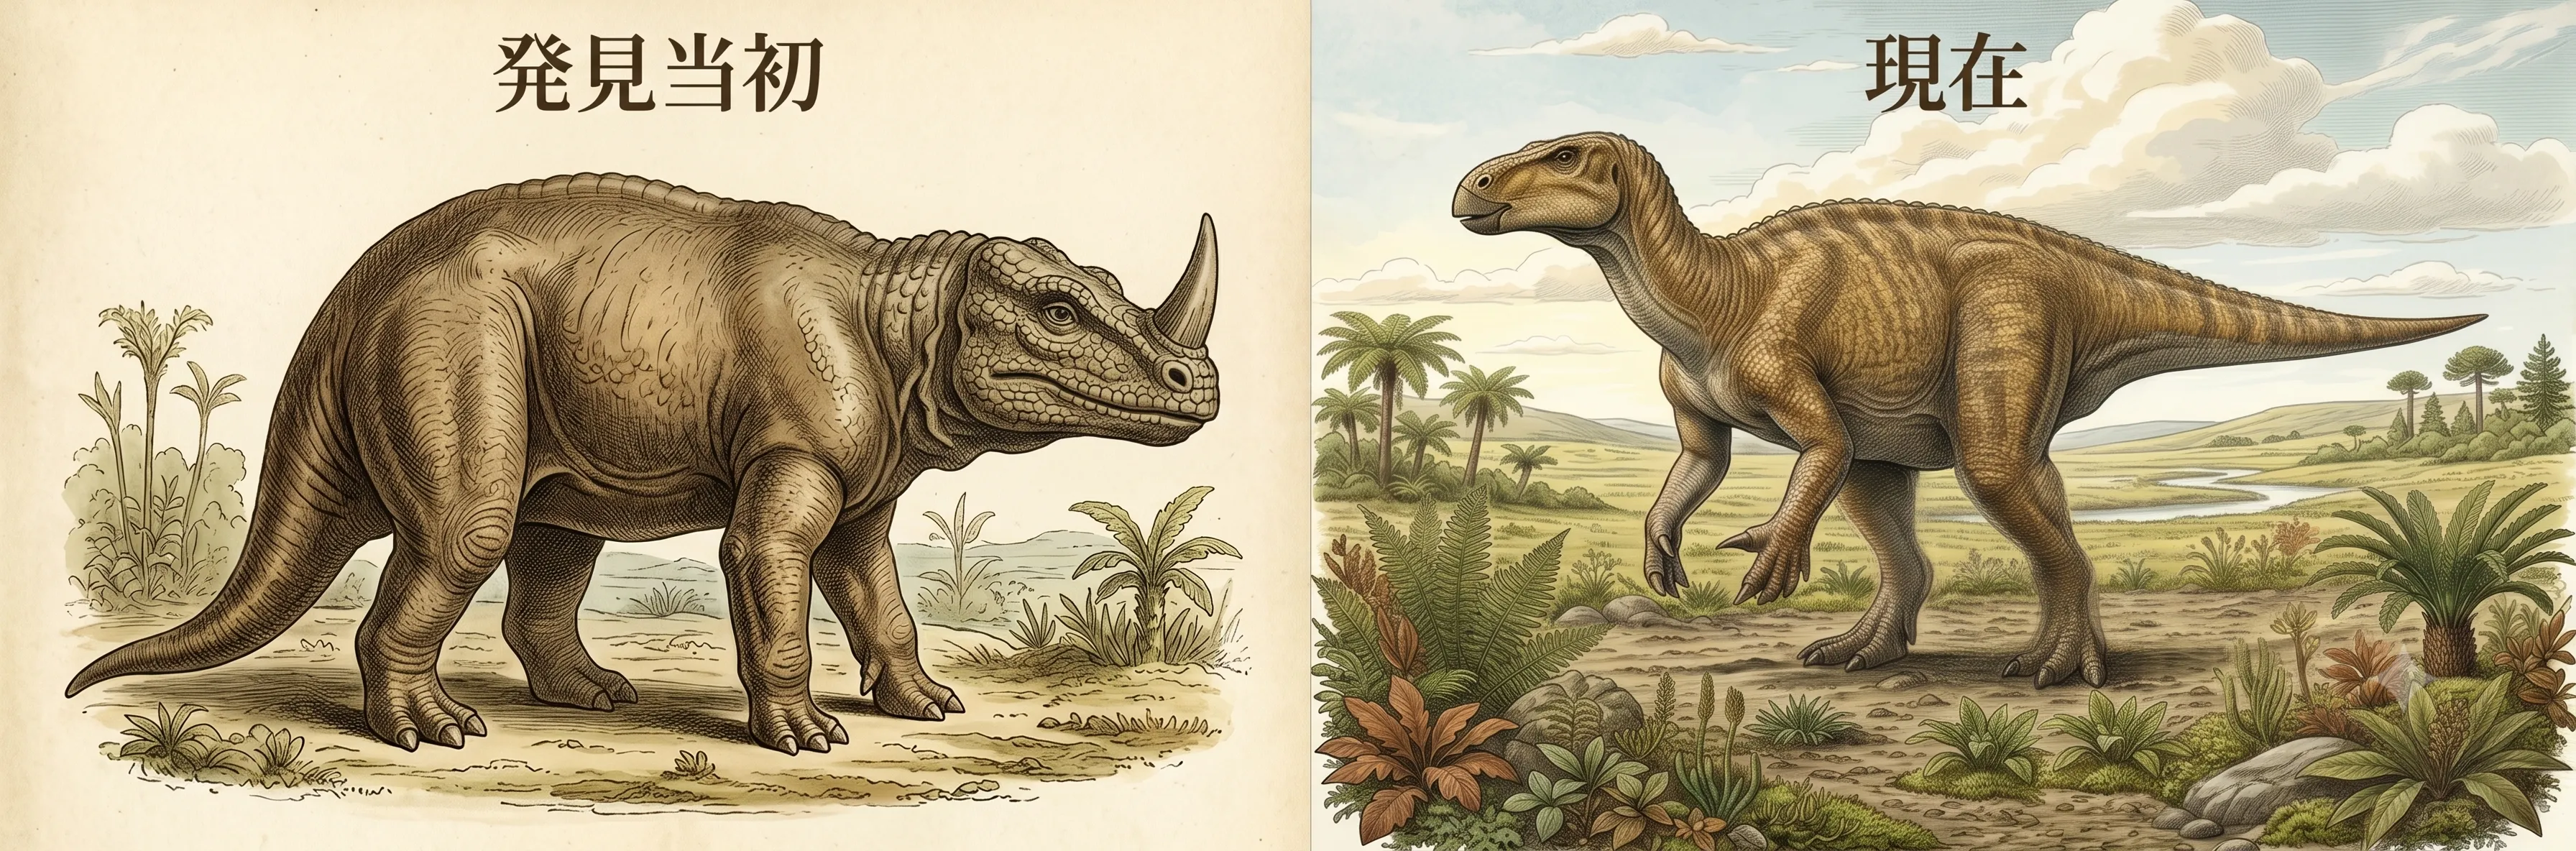
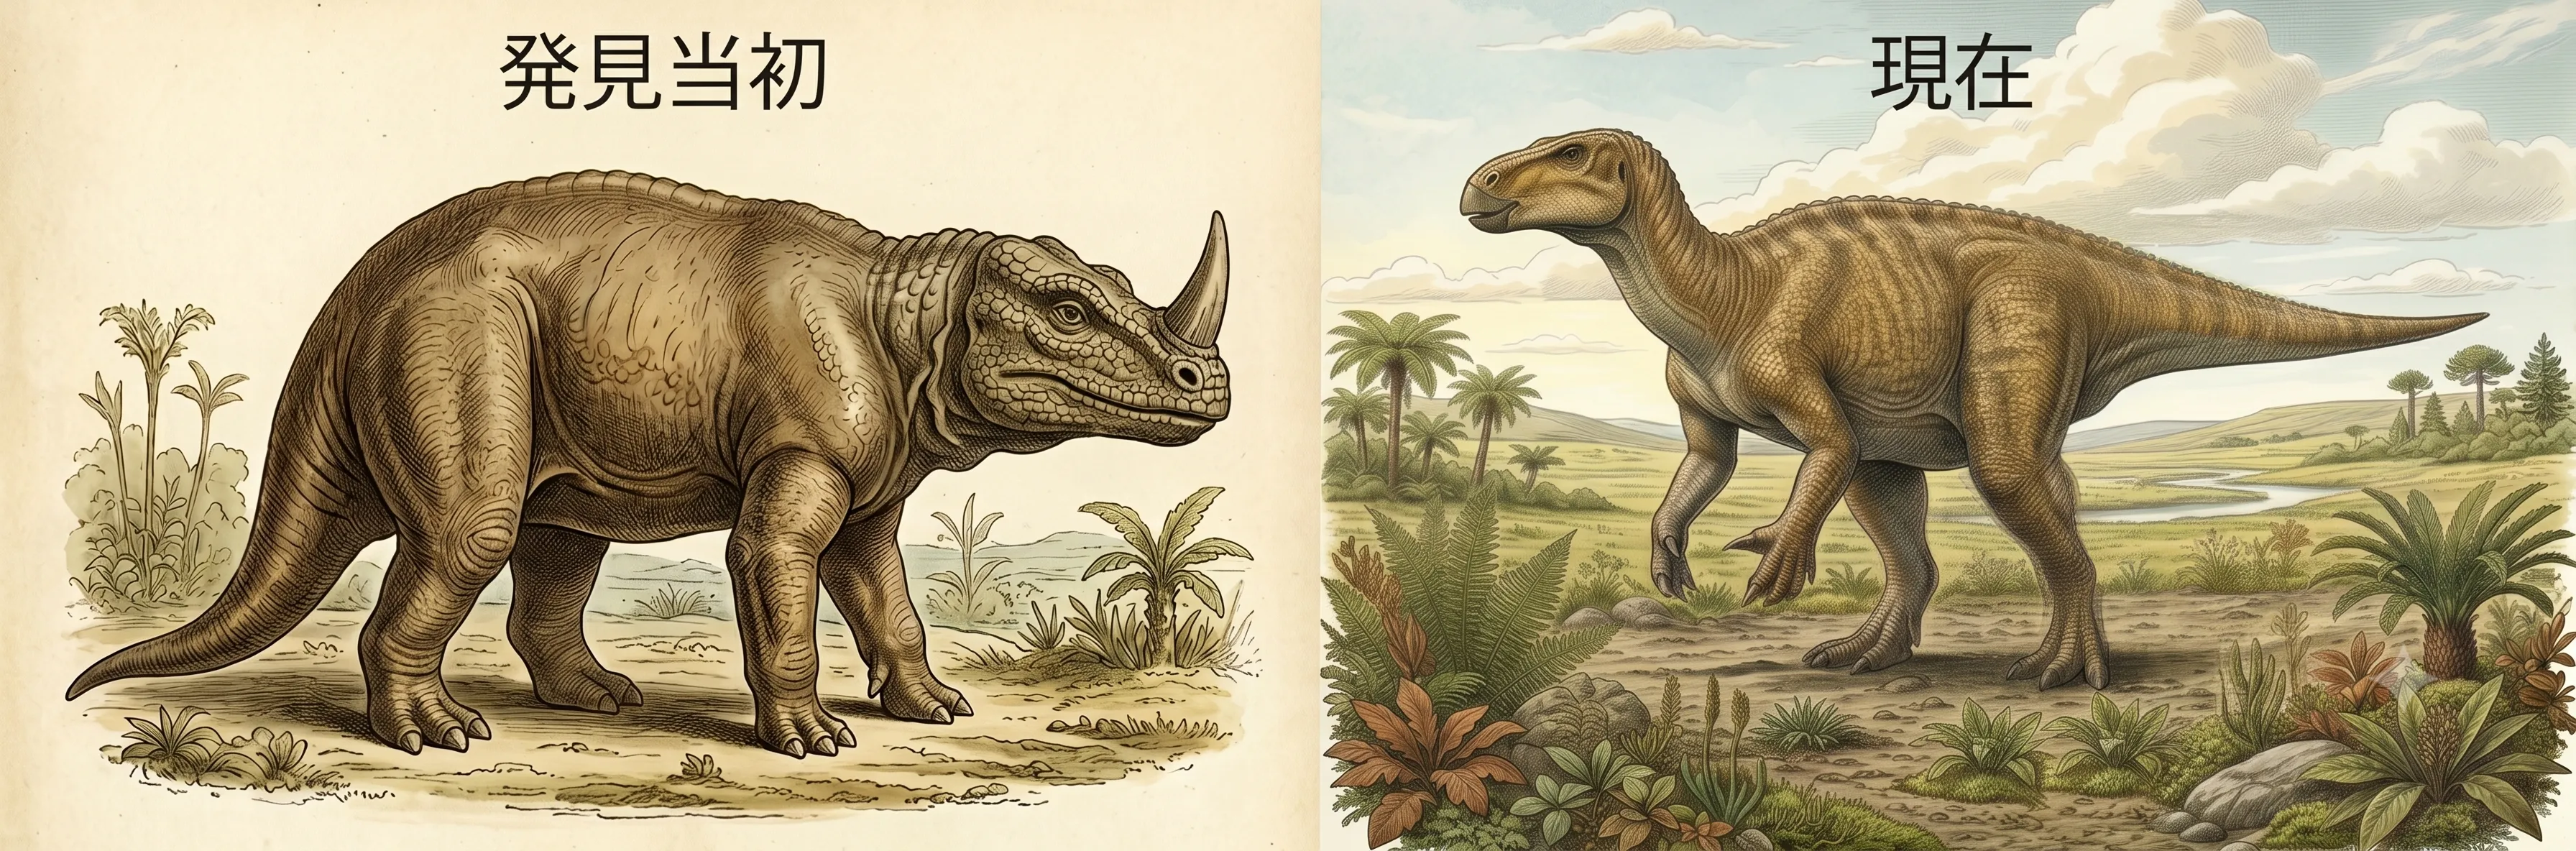
style(topics): increase Iguanodon image size to 900px and include user replaced image

diff --git a/src/data/topics.ts b/src/data/topics.ts
@@ -946,7 +946,7 @@ const RAW_TOPICS = [
 <p class="article-paragraph">
   マンテルはこの歯が現生の爬虫類「イグアナ」の歯と酷似しているものの、サイズが数十倍も大きいことに驚愕し、1825年に「イグアナの歯」を意味する「イグアノドン」と命名しました。マンテルは当初、一緒に見つかった鋭いスパイク状の骨を「鼻の上の角」と勘違いし、巨大なサイのような復元図を描きましたが、後の完全な化石の発見により、これが「親指の爪（スパイク）」であることが判明しました。
 </p>
-<div style="width: 100%; max-width: 600px; margin: 15px auto 25px auto;">
+<div style="width: 100%; max-width: 900px; margin: 15px auto 25px auto;">
   <img src="/images/topics/first_named_dinosaur2.webp" alt="イグアノドンの復元イラスト (歴史的復元)" style="width: 100%; border: 1px solid var(--panel-border); border-radius: 4px; box-shadow: 0 0 10px rgba(0, 242, 255, 0.1); display: block;" />
 </div>
 